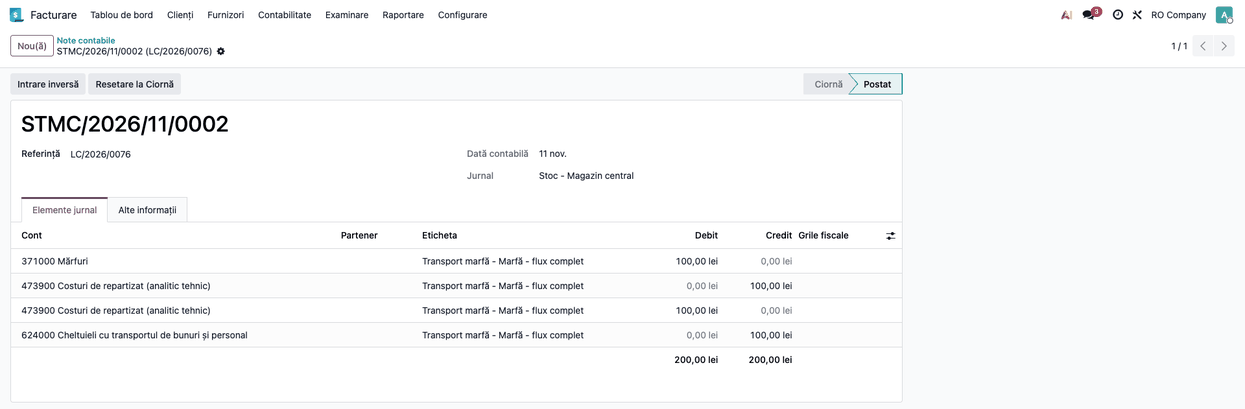
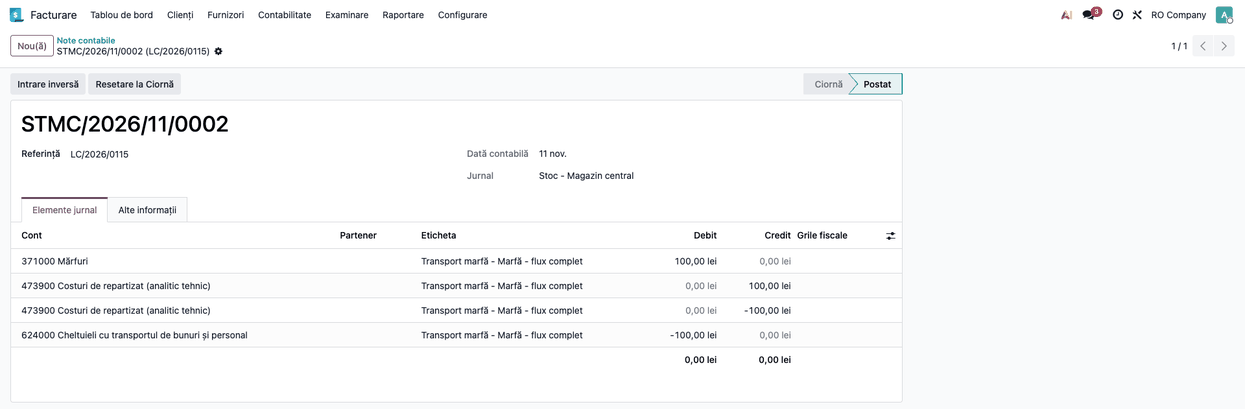
[IMP] l10n_ro_stock_account_landed_cost_account: storno accounting on the intermediary note
With the company Storno accounting setting on, the second pair of the
intermediary landed cost note is posted in red on the same sides (class 6
debit, intermediary credit, both negative) instead of intermediary debit /
class 6 credit. The standard method is unchanged. Tests for storno on and off
(flow, reserved, sold, reception with notice) and sheet update.

Assisted-by: Claude Opus 5.5

diff --git a/l10n_ro_stock_account_landed_cost_account/tests/test_landed_cost_scenarios.py b/l10n_ro_stock_account_landed_cost_account/tests/test_landed_cost_scenarios.py
@@ -130,6 +130,7 @@ class TestLandedCostScenarios(TestLandedCostIntermediary):
 
     def test_02_flow_intermediary(self):
         """Same flow, through the intermediary account: two balanced pairs."""
+        self.company.account_storno = False
         self._enable_intermediary()
         __, receipt = self._purchase_receipt()
         landed = self._landed_from_bill(receipt)
@@ -164,6 +165,7 @@ class TestLandedCostScenarios(TestLandedCostIntermediary):
         self.assertEqual(delivery.move_ids.value, 400.0, "The delivered cost is not restated")
 
     def test_05_sold_stock_intermediary(self):
+        self.company.account_storno = False
         self._enable_intermediary()
         __, receipt = self._purchase_receipt()
         self._delivery(4.0, validate=True)
@@ -228,3 +230,72 @@ class TestLandedCostScenarios(TestLandedCostIntermediary):
         self._delivery(10.0, validate=True)
         landed = self._landed_from_bill(receipt)
         self.assertFalse(landed.account_move_id.line_ids)
+
+    # Storno accounting: the second pair of the intermediary note is posted in red
+    def test_11_flow_intermediary_storno(self):
+        """With storno accounting the note is Dr 371 / Cr intermediary and then the class 6
+        account debited and the intermediary account credited, both in red (negative)."""
+        self.company.account_storno = True
+        self._enable_intermediary()
+        __, receipt = self._purchase_receipt()
+        landed = self._landed_from_bill(receipt)
+        self.assertEqual(
+            self._lines(landed.account_move_id),
+            [("371000", 100.0, 0.0), ("482099", 0.0, -100.0), ("482099", 0.0, 100.0), ("607000", -100.0, 0.0)],
+        )
+        storno = landed.account_move_id.line_ids.filtered("is_storno")
+        self.assertCountEqual(storno.mapped("account_id.code"), ["482099", "607000"])
+        intermediary = landed.account_move_id.line_ids.filtered(
+            lambda line: line.account_id == self.intermediary_account
+        )
+        self.assertAlmostEqual(sum(intermediary.mapped("balance")), 0.0, msg="Intermediary account nets to zero")
+        self.assertAlmostEqual(
+            landed.account_move_id.line_ids.filtered(lambda line: line.account_id == self.account_expense).balance,
+            -100.0,
+        )
+
+    def test_12_sold_intermediary_storno(self):
+        """4 pcs sold, storno on: the 60 capitalized go through the intermediary account in red."""
+        self.company.account_storno = True
+        self._enable_intermediary()
+        __, receipt = self._purchase_receipt()
+        self._delivery(4.0, validate=True)
+        landed = self._landed_from_bill(receipt)
+        self.assertEqual(
+            self._lines(landed.account_move_id),
+            [("371000", 60.0, 0.0), ("482099", 0.0, -60.0), ("482099", 0.0, 60.0), ("607000", -60.0, 0.0)],
+        )
+
+    def test_13_standard_not_affected_by_storno(self):
+        """The standard method (no intermediary account) posts the same entry with or without storno."""
+        for storno in (False, True):
+            self.company.account_storno = storno
+            __, receipt = self._purchase_receipt()
+            landed = self._landed_from_bill(receipt)
+            self.assertEqual(self._lines(landed.account_move_id), [("371000", 100.0, 0.0), ("607000", 0.0, 100.0)])
+
+    def test_14_reserved_intermediary_storno(self):
+        """Stock reserved for a sale, storno on, intermediary method: the whole cost (100) is
+        capitalized and the second pair is in red; the reservation is not touched."""
+        self.company.account_storno = True
+        self._enable_intermediary()
+        __, receipt = self._purchase_receipt()
+        delivery = self._delivery(4.0, validate=False)
+        landed = self._landed_from_bill(receipt)
+        self.assertEqual(delivery.state, "assigned")
+        self.assertEqual(
+            self._lines(landed.account_move_id),
+            [("371000", 100.0, 0.0), ("482099", 0.0, -100.0), ("482099", 0.0, 100.0), ("607000", -100.0, 0.0)],
+        )
+
+    def test_15_notice_sold_intermediary_storno(self):
+        """Reception with notice, 4 pcs sold, storno on, intermediary method: 60 capitalized, second pair in red."""
+        self.company.account_storno = True
+        self._enable_intermediary()
+        __, receipt = self._purchase_receipt(notice=True)
+        self._delivery(4.0, validate=True)
+        landed = self._landed_from_bill(receipt)
+        self.assertEqual(
+            self._lines(landed.account_move_id),
+            [("371000", 60.0, 0.0), ("482099", 0.0, -60.0), ("482099", 0.0, 60.0), ("607000", -60.0, 0.0)],
+        )

diff --git a/l10n_ro_stock_account_landed_cost_account/models/stock_landed_cost.py b/l10n_ro_stock_account_landed_cost_account/models/stock_landed_cost.py
@@ -39,7 +39,8 @@ class AdjustmentLines(models.Model):
         instead of crediting a class 6 account directly. Class 609 is never
         rerouted. Active only when the company landed cost method is set to
         'intermediary' and an intermediary account is configured; otherwise the
-        standard behaviour is preserved."""
+        standard behaviour is preserved. With storno accounting the second pair is
+        posted in red (class 6 debit / intermediary credit, both negative)."""
         company = self.cost_id.company_id
         if company.l10n_ro_landed_cost_method != "intermediary":
             return lines
@@ -56,6 +57,17 @@ class AdjustmentLines(models.Model):
             if is_class_6 and credit:
                 # 1) original credit line -> intermediary account (pairs with the stock valuation debit)
                 new_lines.append([0, 0, dict(vals, account_id=intermediary_account.id)])
+                if company.account_storno:
+                    # Storno accounting: the second pair is a red (negative) entry on the same
+                    # sides, class 6 debited and the intermediary account credited, both negative
+                    # (624 = 4739 in red), instead of intermediary debit / class 6 credit.
+                    new_lines.append(
+                        [0, 0, dict(vals, account_id=intermediary_account.id, credit=-credit, is_storno=True)]
+                    )
+                    new_lines.append(
+                        [0, 0, dict(vals, account_id=account.id, credit=0.0, debit=-credit, is_storno=True)]
+                    )
+                    continue
                 # 2) intermediary account on debit (pairs with the class 6 credit below)
                 new_lines.append([0, 0, dict(vals, account_id=intermediary_account.id, credit=0.0, debit=credit)])
                 # 3) class 6 account credited against the intermediary account

diff --git a/l10n_ro_stock_account_landed_cost_account/tests/test_screenshots.py b/l10n_ro_stock_account_landed_cost_account/tests/test_screenshots.py
@@ -86,6 +86,7 @@ class TestLandedCostScreenshots(AccountTestInvoicingCommon, ScreenshotCase or ob
         cls.goods_bill.action_post()
         cls.carrier_bill = cls._carrier_bill("FT-2001")
         cls.landed_standard = cls._landed(cls.carrier_bill, cls.receipt)
+        company.account_storno = True
         company.write(
             {
                 "l10n_ro_landed_cost_method": "intermediary",
@@ -261,7 +262,7 @@ class TestLandedCostScreenshots(AccountTestInvoicingCommon, ScreenshotCase or ob
         )
         self.assertEqual(
             self._dr_cr(self.landed_routed.account_move_id),
-            [("371000", 100.0, 0.0), ("473900", 0.0, 100.0), ("473900", 100.0, 0.0), ("624000", 0.0, 100.0)],
+            [("371000", 100.0, 0.0), ("473900", 0.0, -100.0), ("473900", 0.0, 100.0), ("624000", -100.0, 0.0)],
         )
         self.assertEqual(
             self._dr_cr(self.landed_reserved.account_move_id), [("371000", 100.0, 0.0), ("624000", 0.0, 100.0)]

diff --git a/l10n_ro_stock_account_landed_cost_account/__manifest__.py b/l10n_ro_stock_account_landed_cost_account/__manifest__.py
@@ -1,7 +1,7 @@
 # License AGPL-3.0 or later (http://www.gnu.org/licenses/agpl.html).
 {
     "name": "Romania - Stock Accounting Landed Cost Account",
-    "version": "19.0.1.1.4",
+    "version": "19.0.1.2.0",
     "category": "Localization",
     "countries": ["ro"],
     "summary": "Romania - Stock Accounting Landed Cost account determination",

diff --git a/l10n_ro_stock_account_landed_cost_account/readme/FISA_CONSULTANT.md b/l10n_ro_stock_account_landed_cost_account/readme/FISA_CONSULTANT.md
@@ -14,7 +14,8 @@ Modulul adaugă, la documentul standard Odoo **Costuri adiționale**:
 - **contul din locație** pentru nota de evaluare (locația de destinație la intrări, cea sursă la
   ieșiri) și poziția fiscală a jurnalului;
 - opțional, **rutarea creditului clasei 6 printr-un cont intermediar tehnic**, pe companie: o notă
-  cu două perechi echilibrate (stoc / intermediar și intermediar / 6xx).
+  cu două perechi echilibrate: stoc / intermediar și a doua pereche, care depinde de bifa
+  **Storno accounting** a companiei (vezi mai jos).
 
 Fișa tratează situațiile care apar între recepție și costul adițional, pentru **ambele moduri de
 recepție**:
@@ -39,6 +40,10 @@ vândut** la validarea costului.
   reclasifică în costul vânzărilor, și dacă e corectă creditarea unui cont de clasa 6 la repartizarea
   pe stoc, sunt decizii ale politicii contabile a firmei: Pacioli nu a găsit în sursele lui un temei pentru
   nicio variantă, deci fișa **nu afirmă o monografie** pentru aceste două puncte.
+- **Storno accounting** (bifa din Setări → Contabilitate, implicit pornită în România): la metoda *Prin cont
+  intermediar*, a doua pereche se postează în roșu, pe aceleași părți: **Dr 624 −100 / Cr intermediar −100**
+  (`624 = 4739` în roșu), în loc de Dr intermediar 100 / Cr 624 100. Efectul net pe conturi e același (624 se
+  creditează cu 100, intermediarul rămâne cu sold zero). La metoda *Standard* bifa nu schimbă nota.
 - Contul intermediar este o soluție tehnică (exporturi care cer note echilibrate pe perechi de
   conturi). Îl alege firma prin politica contabilă; nu poate fi din clasa 6.
 
@@ -114,10 +119,11 @@ Nota costului adițional (metoda *Standard*): **Dr 371 100 / Cr 624 100**. Valoa
 ![Nota standard: Dr 371 100 lei, Cr 624 100 lei](../static/description/07_note_standard.png)
 
 Cu metoda *Prin cont intermediar*, pentru un alt cost adițional (exemplul folosește același produs, a doua
-factură de transport), nota are patru linii: Dr 371 100 / Cr intermediar 100 și Dr intermediar 100 / Cr 624 100;
-soldul intermediarului este 0.
+factură de transport), nota are patru linii. Cu **Storno accounting** pornit (cazul României): Dr 371 100 /
+Cr intermediar 100 și, **în roșu**, Dr 624 −100 / Cr intermediar −100. Cu bifa oprită: Dr 371 100 / Cr intermediar 100
+și Dr intermediar 100 / Cr 624 100. În ambele cazuri soldul intermediarului este 0.
 
-![Nota prin cont intermediar: două perechi de câte 100 lei](../static/description/08_note_intermediary.png)
+![Nota prin cont intermediar cu Storno accounting: Dr 371 / Cr 473900 și 624 = 473900 în roșu (−100 lei)](../static/description/08_note_intermediary.png)
 
 ### Scenariul 2 — Stoc rezervat pentru o vânzare
 
@@ -131,6 +137,8 @@ Din cele 10 buc. recepționate, 4 sunt rezervate pe o livrare încă nevalidată
 
 ![Nota pentru stocul rezervat: Dr 371 100 lei, Cr 624 100 lei](../static/description/10_note_reserved.png)
 
+   Cu metoda *Prin cont intermediar* și Storno accounting pornit, nota are aceleași patru linii ca în
+   Scenariul 1, pentru 100 lei (a doua pereche în roșu).
 3. Validați apoi livrarea. Cele 4 buc. ies la **110 lei** bucata (100 + 10 cost adițional): Dr 607 440 / Cr 371
    440. Costul adițional urmărește marfa în costul vânzărilor.
 
@@ -145,7 +153,8 @@ Din cele 10 buc., 4 au fost livrate și validate înainte de costul adițional. 
 
 1. Validați costul adițional de 100 lei.
 2. **Verificați:** nota este **Dr 371 60 / Cr 624 60**, adică doar cele 6 buc. rămase în stoc (6/10 din 100).
-   Cu metoda *Prin cont intermediar*: Dr 371 60 / Cr intermediar 60 și Dr intermediar 60 / Cr 624 60.
+   Cu metoda *Prin cont intermediar* și Storno accounting pornit: Dr 371 60 / Cr intermediar 60 și, în roșu,
+   Dr 624 −60 / Cr intermediar −60 (fără storno: Dr intermediar 60 / Cr 624 60).
 
 ![Costul adițional validat după livrare](../static/description/12_landed_cost_sold.png)
 
@@ -191,7 +200,8 @@ Cu bifa **Aviz** pe recepție, intrarea în stoc se postează la validarea recep
 | Cost adițional, tot stocul în gestiune sau rezervat | 371 | 624 | 100 |
 | Cost adițional, 4 buc. vândute | 371 | 624 | 60 |
 | Cost adițional, toate vândute | – | – | 0 (rămâne pe 624) |
-| Metoda intermediar | 371 / intermediar | intermediar / 624 | suma capitalizată |
+| Metoda intermediar, fără storno | 371 / intermediar | intermediar / 624 | suma capitalizată |
+| Metoda intermediar, cu Storno accounting | 371; 624 (−) | intermediar; intermediar (−) | suma capitalizată; a doua pereche în roșu |
 
 ## 7. Legături cu alte module / declarații
 
@@ -206,7 +216,12 @@ Cu bifa **Aviz** pe recepție, intrarea în stoc se postează la validarea recep
 - Cantitatea rezervată nu scade capitalizarea; cantitatea livrată da.
 - Valoarea recepției crește cu costul în Scenariile 1 și 4 (1.000 → 1.100 lei).
 - La recepția cu aviz, factura mărfii stinge 408 și nu postează a doua notă de stoc.
-- La metoda intermediar, soldul contului intermediar este 0.
+- La metoda intermediar, soldul contului intermediar este 0, cu sau fără Storno accounting.
+- Cu Storno accounting, a doua pereche are sume negative (în roșu) pe 624 (debit) și pe intermediar (credit); nota
+  rămâne echilibrată și suma capitalizată nu se schimbă (100 în flux, în stoc rezervat și după recepția cu aviz; 60 cu
+  4 buc. vândute).
+- Costul adițional **negativ** (de exemplu o reducere de la transportator) se postează încă ca stornare clasică
+  (Dr 6xx / Cr 371), indiferent de bifă; nu este tratat în roșu.
 - Costul creat din factură: contul liniei este cel din factura transportatorului.
 
 ## 9. Mesaje de eroare frecvente

diff --git a/l10n_ro_stock_account_landed_cost_account/readme/HISTORY.md b/l10n_ro_stock_account_landed_cost_account/readme/HISTORY.md
@@ -1,3 +1,7 @@
+## 19.0.1.2.0 (2026-11-11)
+
+- With the company **Storno accounting** setting on and the *Through intermediary account* method, the second pair of the landed cost note is now posted in red on the same sides (class 6 debit, intermediary credit, both negative, `624 = 4739` in red), instead of intermediary debit / class 6 credit. The net effect on the accounts is the same. The standard method and the companies without storno accounting are unchanged. Tests for storno on and off with reserved and sold stock and a reception with notice, and the consultant sheet updated.
+
 ## 19.0.1.1.4 (2026-11-11)
 
 - Tests for the landed cost created from the vendor bill and for stock that is already reserved or already sold (only the quantity in stock is capitalized), both after a reception without and with notice (408), and a consultant sheet with 18 screenshots covering these scenarios. No functional change.
